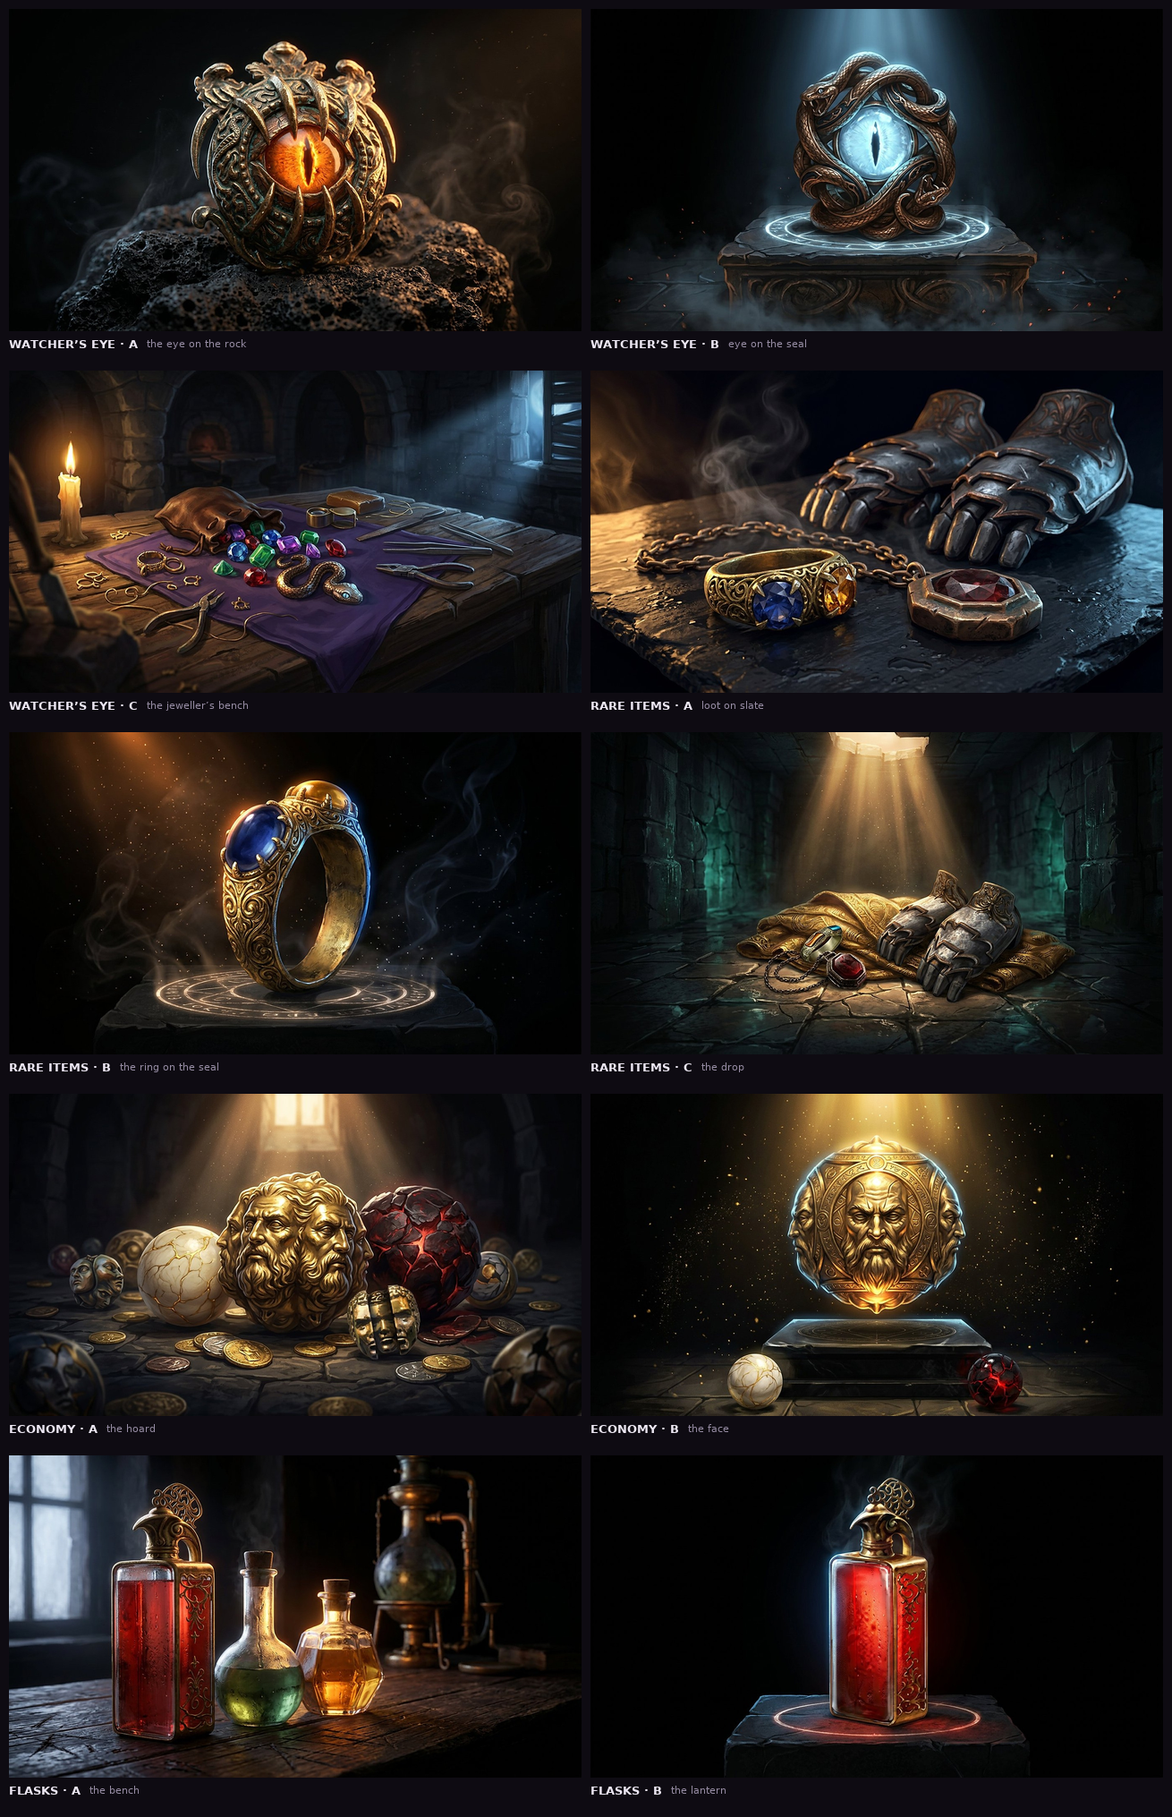
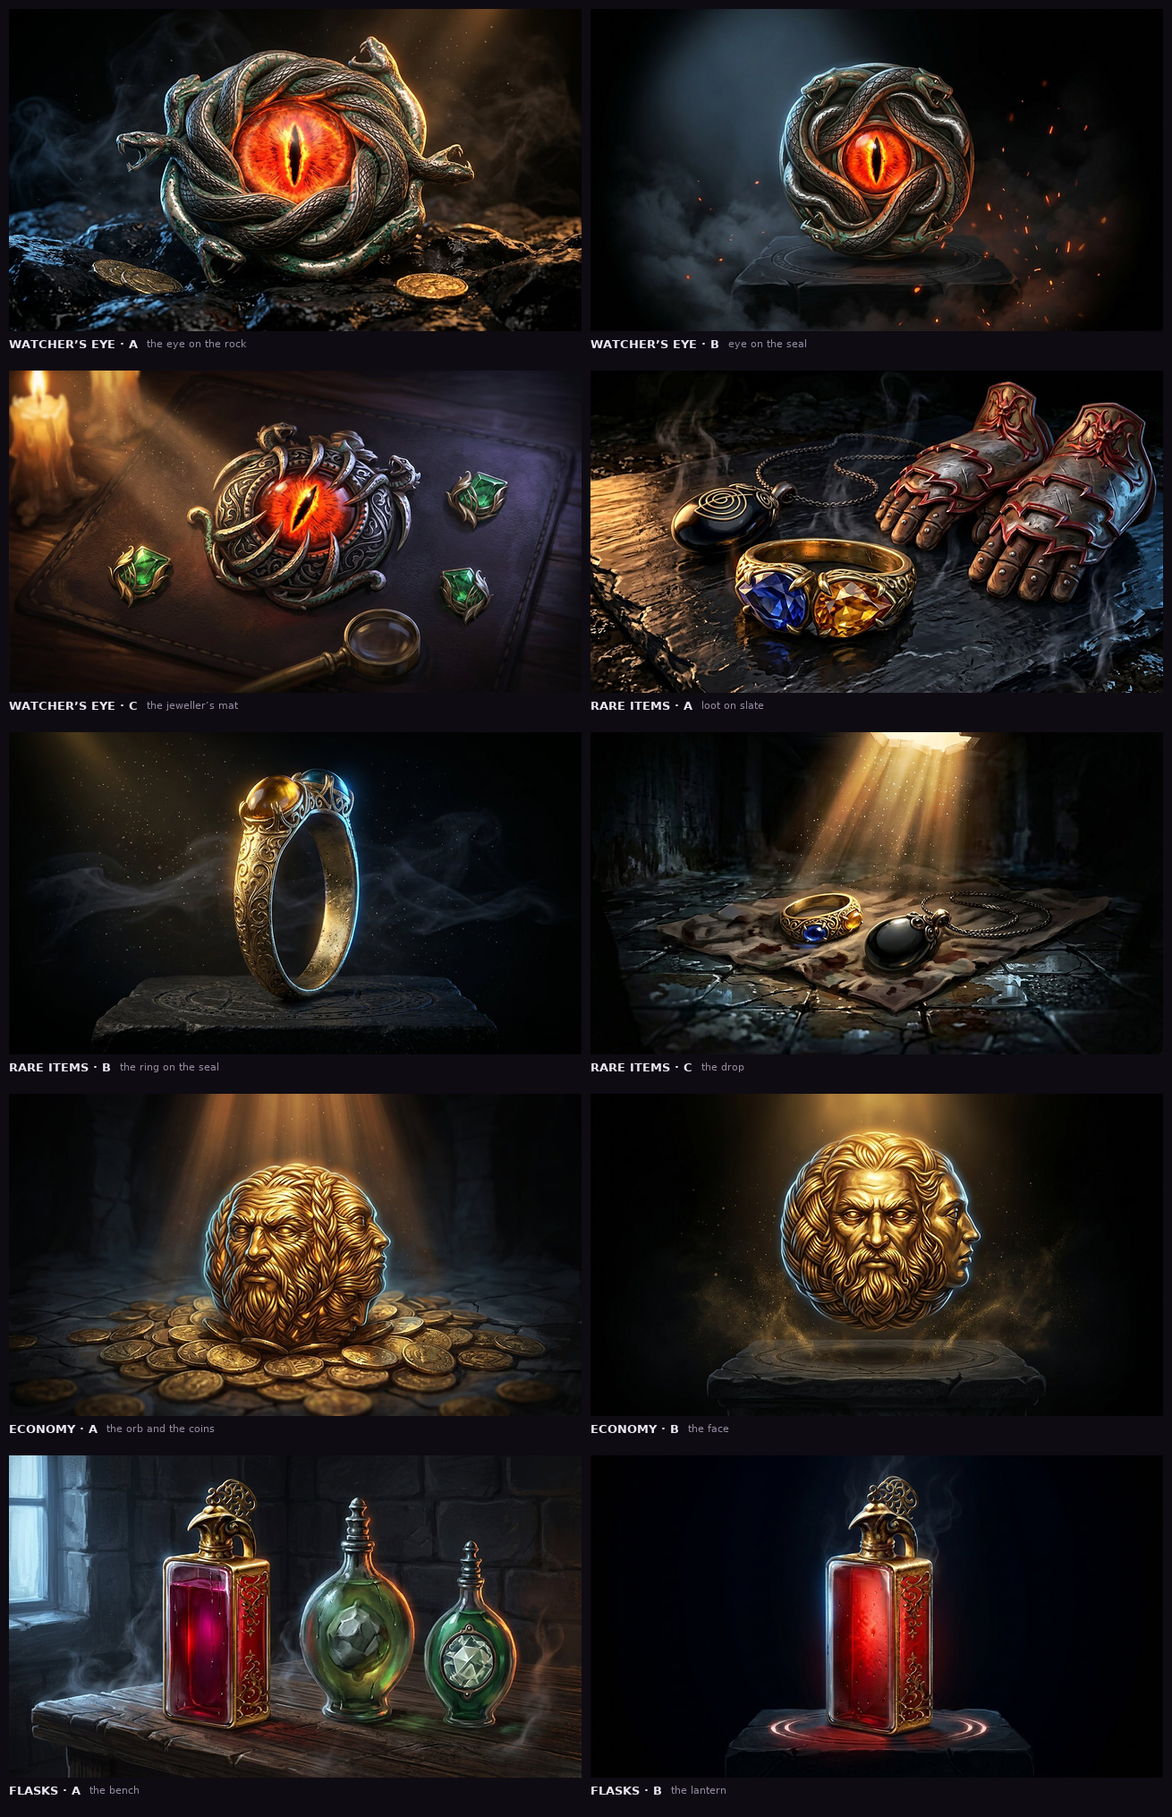
Plates: real Path of Exile 1 items only, PoE1 references only
Second pass on the twelve directions, to the two rules: every artefact is a real
PoE1 item reproduced from its own icon, and every reference fed in is PoE1 art.

- Dropped all PoE2 material from the first pass: the Voices Sapphire render, the
  PoE2 key art, the game8 PoE2 amulets.
- Dropped every invented item. Each picture now carries named items: Watcher's
  Eye (bronze-silver serpents round a fiery orange-red eye — the first pass had
  the jewel's colour wrong as ice-blue), the Two-Stone Ring with its blue
  sapphire AND amber topaz, the Onyx Amulet, PoE1 rare gauntlets, the Exalted
  Orb, and the Divine Life / Granite / Diamond flasks.
- The v2 set is deleted rather than kept alongside: they were the rejected
  invented-gear pictures.

Ten of twelve again; economy C and flasks C hit the per-turn generation cap and
follow next turn. Page rewritten for the new set and says exactly what each
picture contains and which real PoE1 art fed it.

diff --git a/preview/designs/plates.html b/preview/designs/plates.html
@@ -25,11 +25,13 @@
   .top { max-width: 1440px; margin: 0 auto; padding: 46px 32px 0; }
   .word { font-size: 12px; font-weight: 700; letter-spacing: .24em; text-transform: uppercase; color: var(--accent); }
   h1 { margin: 12px 0 0; font-size: 38px; line-height: 1.08; letter-spacing: -.025em; font-weight: 600; }
-  .sub { margin: 14px 0 0; max-width: 860px; font-size: 14.5px; line-height: 1.7; color: var(--ink-2); }
+  .sub { margin: 14px 0 0; max-width: 900px; font-size: 14.5px; line-height: 1.7; color: var(--ink-2); }
   .sub b { color: var(--ink); font-weight: 600; }
   .sub i { color: var(--gold); font-style: normal; }
   .hint { margin: 12px 0 0; max-width: 900px; font-size: 12.5px; line-height: 1.7; color: var(--ink-3); }
   .hint b { color: var(--ink-2); font-weight: 600; }
+  .rule { max-width: 900px; margin: 16px 0 0; padding: 12px 15px; border-left: 2px solid var(--accent);
+          background: rgba(255, 77, 94, .05); font-size: 12.8px; line-height: 1.65; color: #cbbfc9; border-radius: 0 8px 8px 0; }
 
   .bar {
     position: sticky; top: 0; z-index: 5;
@@ -40,13 +42,12 @@
   .bar-in { max-width: 1440px; margin: 0 auto; display: flex; gap: 8px; flex-wrap: wrap; align-items: center; }
   .tab {
     padding: 9px 16px; border-radius: 999px; border: 1px solid var(--hair);
-    font-size: 13px; color: var(--ink-2); transition: .18s ease; letter-spacing: .01em;
+    font-size: 13px; color: var(--ink-2); transition: .18s ease;
   }
   .tab:hover { color: var(--ink); border-color: rgba(255, 255, 255, .2); }
   .tab[aria-selected="true"] {
     color: #12060a; background: linear-gradient(180deg, #ff7b88, var(--accent));
-    border-color: transparent; font-weight: 600;
-    box-shadow: 0 6px 22px -8px rgba(255, 77, 94, .9);
+    border-color: transparent; font-weight: 600; box-shadow: 0 6px 22px -8px rgba(255, 77, 94, .9);
   }
   .tab .n { opacity: .55; font-variant-numeric: tabular-nums; margin-left: 6px; font-size: 11.5px; }
   .tab[aria-selected="true"] .n { opacity: .7; }
@@ -79,8 +80,9 @@
   .card:hover .zoom { opacity: 1; }
 
   .meta { padding: 13px 15px 15px; }
-  .meta h2 { margin: 0; font-size: 14.5px; font-weight: 600; letter-spacing: -.005em; }
+  .meta h2 { margin: 0; font-size: 14.5px; font-weight: 600; }
   .meta p { margin: 6px 0 0; font-size: 12.3px; line-height: 1.6; color: var(--ink-2); }
+  .meta p em { color: #8d8399; font-style: normal; }
   .refs { margin: 10px 0 0; display: flex; flex-wrap: wrap; gap: 5px; }
   .refs span {
     font-size: 10px; letter-spacing: .04em; padding: 3px 7px; border-radius: 6px;
@@ -88,7 +90,7 @@
   }
   .refs span::before { content: "ref · "; color: #6f6579; }
 
-  .pend { border: 1px dashed rgba(255, 255, 255, .16); border-radius: 14px; display: grid; place-items: center; aspect-ratio: auto; min-height: 240px; background: rgba(255, 255, 255, .015); }
+  .pend { border: 1px dashed rgba(255, 255, 255, .16); border-radius: 14px; display: grid; place-items: center; min-height: 250px; background: rgba(255, 255, 255, .015); }
   .pend div { text-align: center; padding: 20px; }
   .pend b { display: block; font-size: 13px; letter-spacing: .18em; text-transform: uppercase; color: var(--ink-3); }
   .pend small { display: block; margin-top: 8px; font-size: 12px; color: #554d5f; line-height: 1.6; }
@@ -100,19 +102,28 @@
 <body>
 
 <header class="top">
-  <div class="word">forever exiled · plate directions</div>
-  <h1>Three directions per destination, 1920 × 1080</h1>
+  <div class="word">forever exiled · plate directions · second pass</div>
+  <h1>Real Path of Exile 1 items, three directions each</h1>
   <p class="sub">
-    Twelve pictures, three per tab, built the way you asked: <b>each one generated from several pieces
-    of real Path of Exile art at once</b> — the inventory icon for the artefact itself, plus other real
-    assets for material, palette and style — not traced and not redrawn. Three constructions, the same
-    three per tab: <i>A</i> a naturalistic still life, <i>B</i> a centred poster on an engraved seal,
-    <i>C</i> the artefact inside its world. Pick what you like per tab and I will rebuild that one at
-    full fidelity.
+    Rebuilt to your two rules: <b>every artefact in these pictures is a real Path of Exile 1 item</b>,
+    described from its own in-game icon and reproduced to that design — and <b>every reference fed in is
+    Path of Exile 1 art</b>. The Path of Exile 2 assets from the first pass (the Voices jewel render,
+    the PoE2 key art, the PoE2 amulet set) are gone, and so is every invented piece of gear: each
+    picture now carries one named item from the game and nothing else.
   </p>
+  <div class="rule">
+    <b>What is in each picture, exactly.</b> Watcher's Eye: the bronze-and-silver serpent ring around a
+    fiery orange-red eye — <em>not</em> the ice-blue one I used before; I had the jewel's colour wrong.
+    Rare Items: the gold band with a <b>blue sapphire and an amber topaz</b> side by side, the black
+    onyx teardrop amulet on its chain, and PoE1's rare leather-and-steel gloves. Economy: the <b>Exalted
+    Orb</b> — plaited-gold bearded face with a second profile merging round the side. Flasks: the
+    <b>Divine Life Flask</b> (tall ruby bottle, gold cap and corner plates), the <b>Granite Flask</b>
+    (stone in green glass) and the <b>Diamond Flask</b> (crystal in green glass).
+  </div>
   <p class="hint">
-    Every file is a true <b>1920 × 1080</b> JPEG. Click a picture to open it at full size. The chips
-    under each one list the real game art that fed it.
+    All files are true <b>1920 × 1080</b> JPEGs. Click a picture to open it full size. Same three
+    constructions per tab: <b>A</b> an object in a place, <b>B</b> a centred poster on a carved seal,
+    <b>C</b> the item in its world.
   </p>
 </header>
 
@@ -130,44 +141,44 @@
   <section class="set on" id="set-watchers">
     <div class="grid">
       <article class="card">
-        <a class="shot" href="../../assets/plates/v2/watchers-a.jpg" target="_blank" rel="noopener">
-          <span class="badge"><b>A</b> still life</span>
-          <img src="../../assets/plates/v2/watchers-a.jpg" alt="Watcher's Eye on volcanic rock" loading="lazy">
+        <a class="shot" href="../../assets/plates/v3/watchers-a.jpg" target="_blank" rel="noopener">
+          <span class="badge"><b>A</b> in a place</span>
+          <img src="../../assets/plates/v3/watchers-a.jpg" alt="Watcher's Eye on volcanic stone" loading="lazy">
           <span class="zoom">1920 × 1080 ↗</span>
         </a>
         <div class="meta">
           <h2>The eye on the rock</h2>
-          <p>Macro object study: the serpent-wrapped jewel on black volcanic stone, one warm rim light,
-          amber iris lit from inside, smoke. The most dramatic of the three, the least "inventory".</p>
-          <div class="refs"><span>Watcher's Eye icon</span><span>Voices jewel render</span><span>Samurai's Eye card art</span><span>PoE2 key art</span></div>
+          <p>The real jewel on wet volcanic stone with a few loose coins: silver-green serpent coils,
+          fanged heads curling out, the fiery eye lit from inside. The most dramatic of the three.</p>
+          <div class="refs"><span>Watcher's Eye icon</span><span>Grand Spectrum jewel</span><span>grove painting</span></div>
         </div>
       </article>
 
       <article class="card">
-        <a class="shot" href="../../assets/plates/v2/watchers-b.jpg" target="_blank" rel="noopener">
+        <a class="shot" href="../../assets/plates/v3/watchers-b.jpg" target="_blank" rel="noopener">
           <span class="badge"><b>B</b> centred poster</span>
-          <img src="../../assets/plates/v2/watchers-b.jpg" alt="Watcher's Eye on a seal" loading="lazy">
+          <img src="../../assets/plates/v3/watchers-b.jpg" alt="Watcher's Eye on a carved seal" loading="lazy">
           <span class="zoom">1920 × 1080 ↗</span>
         </a>
         <div class="meta">
           <h2>Eye on the seal</h2>
-          <p>The game's own colour — pale ice-blue iris, coiled bronze serpents — on a carved altar with
-          a lit sigil. Dead centre, symmetrical, so it survives a mask and a panel over it.</p>
-          <div class="refs"><span>Watcher's Eye icon</span><span>Samurai's Eye card art</span><span>Voices jewel render</span></div>
+          <p>Dead centre on a carved plinth, smoke and embers rising, cold key light against the orange
+          eye. Symmetrical, so it survives the frame's mask and the panel over it.</p>
+          <div class="refs"><span>Watcher's Eye icon</span><span>Grand Spectrum jewel</span><span>graveyard painting</span></div>
         </div>
       </article>
 
       <article class="card">
-        <a class="shot" href="../../assets/plates/v2/watchers-c.jpg" target="_blank" rel="noopener">
+        <a class="shot" href="../../assets/plates/v3/watchers-c.jpg" target="_blank" rel="noopener">
           <span class="badge"><b>C</b> in its world</span>
-          <img src="../../assets/plates/v2/watchers-c.jpg" alt="Jeweller's bench with jewels" loading="lazy">
+          <img src="../../assets/plates/v3/watchers-c.jpg" alt="Jeweller's mat with the jewel and green jewels" loading="lazy">
           <span class="zoom">1920 × 1080 ↗</span>
         </a>
         <div class="meta">
-          <h2>The jeweller's bench</h2>
-          <p>Violet cloth, spilled cut gems, tools, one candle and one shuttered window — the eye jewel
-          is the largest piece in the spill, but it is off-centre and small in the frame.</p>
-          <div class="refs"><span>Watcher's Eye icon</span><span>Voices jewel render</span><span>PoE2 key art</span><span>jewel splash</span></div>
+          <h2>The jeweller's mat</h2>
+          <p>Dark leather, a brass loupe, three green Grand Spectrum jewels and one candle. Warm and
+          quiet, and the eye still holds the centre — the best of the three as a background.</p>
+          <div class="refs"><span>Watcher's Eye icon</span><span>Grand Spectrum jewel</span><span>grove painting</span></div>
         </div>
       </article>
     </div>
@@ -176,44 +187,44 @@
   <section class="set" id="set-rare">
     <div class="grid">
       <article class="card">
-        <a class="shot" href="../../assets/plates/v2/rare-a.jpg" target="_blank" rel="noopener">
-          <span class="badge"><b>A</b> still life</span>
-          <img src="../../assets/plates/v2/rare-a.jpg" alt="Ring, amulet and gauntlets on slate" loading="lazy">
+        <a class="shot" href="../../assets/plates/v3/rare-a.jpg" target="_blank" rel="noopener">
+          <span class="badge"><b>A</b> in a place</span>
+          <img src="../../assets/plates/v3/rare-a.jpg" alt="Ring, onyx amulet and gloves on slate" loading="lazy">
           <span class="zoom">1920 × 1080 ↗</span>
         </a>
         <div class="meta">
           <h2>Loot on slate</h2>
-          <p>A gold two-stone ring with sapphire and topaz, a bronze amulet, steel gauntlets, wet black
-          slate, raking light. Reads as "a haul" rather than one item — closest to a Rare drop.</p>
-          <div class="refs"><span>Two-Stone Ring icon</span><span>unique gauntlets</span><span>Marble Amulet</span><span>Stellar Amulet</span></div>
+          <p>The two-stone ring with its blue and amber stones, the onyx pendant on its chain, and a
+          pair of PoE1's rare gauntlets, on wet black slate. Reads as a haul, not one item.</p>
+          <div class="refs"><span>Two-Stone Ring icon</span><span>Onyx Amulet icon</span><span>rare gloves icon</span><span>graveyard painting</span></div>
         </div>
       </article>
 
       <article class="card">
-        <a class="shot" href="../../assets/plates/v2/rare-b.jpg" target="_blank" rel="noopener">
+        <a class="shot" href="../../assets/plates/v3/rare-b.jpg" target="_blank" rel="noopener">
           <span class="badge"><b>B</b> centred poster</span>
-          <img src="../../assets/plates/v2/rare-b.jpg" alt="Gold ring standing on a plinth" loading="lazy">
+          <img src="../../assets/plates/v3/rare-b.jpg" alt="Gold ring on a carved plinth" loading="lazy">
           <span class="zoom">1920 × 1080 ↗</span>
         </a>
         <div class="meta">
           <h2>The ring on the seal</h2>
-          <p>The ring standing upright, engraved band, two cabochons, on a black plinth with a lit
-          circle. The cleanest of the twelve — one object, one light, nothing competing.</p>
-          <div class="refs"><span>Two-Stone Ring icon</span><span>rare ring icon</span><span>GlovesStr5</span></div>
+          <p>The cleanest of the set — one band, one plinth, one light. <em>Weaker on accuracy: only the
+          amber stone reads clearly; the sapphire is lost behind the band.</em></p>
+          <div class="refs"><span>Two-Stone Ring icon</span><span>grove painting</span></div>
         </div>
       </article>
 
       <article class="card">
-        <a class="shot" href="../../assets/plates/v2/rare-c.jpg" target="_blank" rel="noopener">
+        <a class="shot" href="../../assets/plates/v3/rare-c.jpg" target="_blank" rel="noopener">
           <span class="badge"><b>C</b> in its world</span>
-          <img src="../../assets/plates/v2/rare-c.jpg" alt="Loot on a dungeon floor" loading="lazy">
+          <img src="../../assets/plates/v3/rare-c.jpg" alt="Ring and amulet on a dungeon floor" loading="lazy">
           <span class="zoom">1920 × 1080 ↗</span>
         </a>
         <div class="meta">
           <h2>The drop</h2>
-          <p>The same loot on cracked wet flagstones, one hard shaft of light from a broken ceiling,
-          gold cloth, cold seep on the walls. A "rare item dropped" moment rather than an object.</p>
-          <div class="refs"><span>Two-Stone Ring icon</span><span>Marble Amulet</span><span>Meginord's Vise</span><span>PoE2 key art</span></div>
+          <p>Ring and pendant on cracked wet flagstones, one hard shaft of light from a broken ceiling.
+          A "this just dropped" moment — atmospheric, but the items are small in the frame.</p>
+          <div class="refs"><span>Two-Stone Ring icon</span><span>Onyx Amulet icon</span><span>graveyard painting</span></div>
         </div>
       </article>
     </div>
@@ -222,30 +233,30 @@
   <section class="set" id="set-economy">
     <div class="grid">
       <article class="card">
-        <a class="shot" href="../../assets/plates/v2/economy-a.jpg" target="_blank" rel="noopener">
-          <span class="badge"><b>A</b> still life</span>
-          <img src="../../assets/plates/v2/economy-a.jpg" alt="Hoard of currency orbs" loading="lazy">
+        <a class="shot" href="../../assets/plates/v3/economy-a.jpg" target="_blank" rel="noopener">
+          <span class="badge"><b>A</b> in a place</span>
+          <img src="../../assets/plates/v3/economy-a.jpg" alt="Exalted Orb among coins in a vault" loading="lazy">
           <span class="zoom">1920 × 1080 ↗</span>
         </a>
         <div class="meta">
-          <h2>The hoard</h2>
-          <p>Orbs on a vault floor: the gold face-engraved orb, a pale ivory one, a cracked crimson one,
-          chaos orbs and coins, one shaft of light. Busy, rich, reads as wealth at a glance.</p>
-          <div class="refs"><span>Exalted Orb icon</span><span>Divine Orb card</span><span>orb art 2000 px</span><span>chaos/exalt art</span></div>
+          <h2>The orb and the coins</h2>
+          <p>The Exalted Orb exactly as GGG drew it — plaited gold, bearded face, second profile merging
+          round the side — sitting in a drift of gold coins under one shaft of light.</p>
+          <div class="refs"><span>Exalted Orb icon</span><span>Exalted Orb art 2000 px</span><span>graveyard painting</span></div>
         </div>
       </article>
 
       <article class="card">
-        <a class="shot" href="../../assets/plates/v2/economy-b.jpg" target="_blank" rel="noopener">
+        <a class="shot" href="../../assets/plates/v3/economy-b.jpg" target="_blank" rel="noopener">
           <span class="badge"><b>B</b> centred poster</span>
-          <img src="../../assets/plates/v2/economy-b.jpg" alt="Exalted orb floating above a plinth" loading="lazy">
+          <img src="../../assets/plates/v3/economy-b.jpg" alt="Exalted Orb floating above a plinth" loading="lazy">
           <span class="zoom">1920 × 1080 ↗</span>
         </a>
         <div class="meta">
           <h2>The face</h2>
-          <p>One orb, hovering, lit gold, its engraved faces catching the key light, two smaller orbs at
-          the base. The strongest single subject of the twelve.</p>
-          <div class="refs"><span>Exalted Orb icon</span><span>orb art 2000 px</span><span>Divine Orb card</span></div>
+          <p>The same orb floating over a carved seal, gold dust rising. The strongest single subject of
+          the ten — it reads as currency at thumbnail size.</p>
+          <div class="refs"><span>Exalted Orb art 2000 px</span><span>Exalted Orb icon</span><span>grove painting</span></div>
         </div>
       </article>
 
@@ -261,30 +272,30 @@
   <section class="set" id="set-flasks">
     <div class="grid">
       <article class="card">
-        <a class="shot" href="../../assets/plates/v2/flasks-a.jpg" target="_blank" rel="noopener">
-          <span class="badge"><b>A</b> still life</span>
-          <img src="../../assets/plates/v2/flasks-a.jpg" alt="Flasks on an alchemist bench" loading="lazy">
+        <a class="shot" href="../../assets/plates/v3/flasks-a.jpg" target="_blank" rel="noopener">
+          <span class="badge"><b>A</b> in a place</span>
+          <img src="../../assets/plates/v3/flasks-a.jpg" alt="Three Path of Exile 1 flasks on a bench" loading="lazy">
           <span class="zoom">1920 × 1080 ↗</span>
         </a>
         <div class="meta">
           <h2>The bench</h2>
-          <p>Three flasks in a row on scarred wood — ruby life flask with a gold filigree cap, murky
-          green, amber — backlit so the liquid glows, a brass still behind. Warmest of the set.</p>
-          <div class="refs"><span>Divine Life Flask icon</span><span>flask art 600 px</span><span>alchemy lab art</span><span>alchemy still</span></div>
+          <p>The three real flasks side by side: the Divine Life Flask's ruby body and gold corner
+          plates, the Granite's stone, the Diamond's crystal. Backlit, warm, brick wall behind.</p>
+          <div class="refs"><span>Divine Life Flask icon</span><span>Granite Flask icon</span><span>Diamond Flask icon</span><span>graveyard painting</span></div>
         </div>
       </article>
 
       <article class="card">
-        <a class="shot" href="../../assets/plates/v2/flasks-b.jpg" target="_blank" rel="noopener">
+        <a class="shot" href="../../assets/plates/v3/flasks-b.jpg" target="_blank" rel="noopener">
           <span class="badge"><b>B</b> centred poster</span>
-          <img src="../../assets/plates/v2/flasks-b.jpg" alt="Ruby life flask on a plinth" loading="lazy">
+          <img src="../../assets/plates/v3/flasks-b.jpg" alt="Divine Life Flask on a plinth" loading="lazy">
           <span class="zoom">1920 × 1080 ↗</span>
         </a>
         <div class="meta">
           <h2>The lantern</h2>
-          <p>One flask, lit from behind so the ruby liquid burns, condensation, gold mounts, a lit ring
-          on the plinth. Reads instantly as a life flask, even at thumbnail size.</p>
-          <div class="refs"><span>Divine Life Flask icon</span><span>life flask icon</span><span>alchemy still</span></div>
+          <p>The life flask alone, lit from behind so the ruby liquid burns, gold crest on the cap, a
+          lit ring on the plinth. The most legible at small size.</p>
+          <div class="refs"><span>Divine Life Flask icon</span><span>Granite Flask icon</span><span>grove painting</span></div>
         </div>
       </article>
 
@@ -300,8 +311,10 @@
 </main>
 
 <footer>
-  Generated from Grinding Gear Games' own art as reference — inventory icons, jewel and orb renders,
-  key art and card art. Local design proposal only; nothing here ships without GGG's blessing.
+  Subjects: Grinding Gear Games' Path of Exile 1 inventory art and currency art. References used to
+  paint them: the same PoE1 icons and renders, plus this gallery's own PoE1 splash paintings. No
+  Path of Exile 2 art and no invented items. Local design proposal only; nothing here ships without
+  GGG's blessing.
 </footer>
 
 <script>
